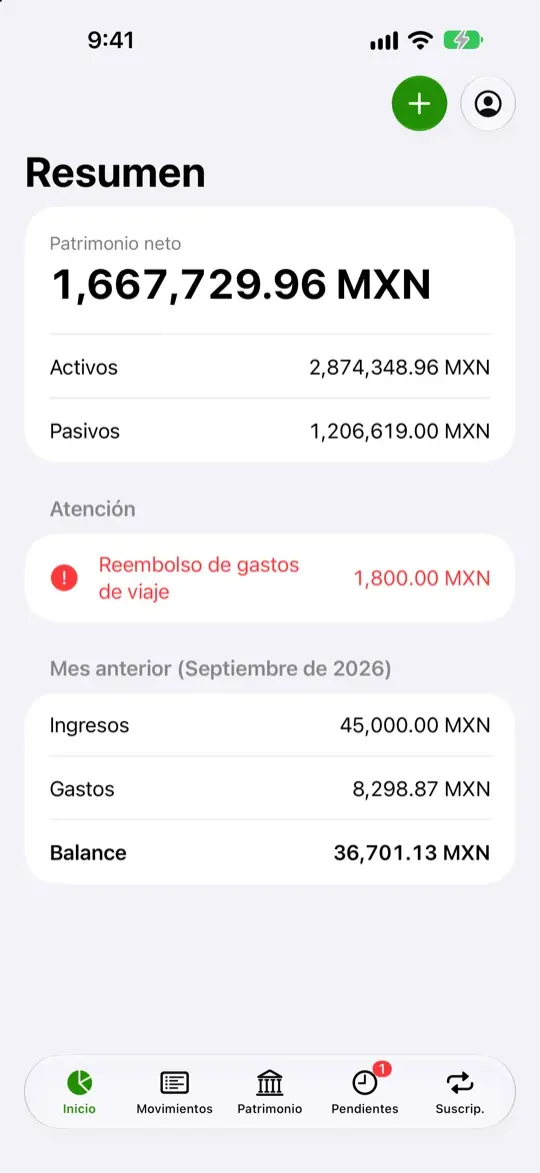
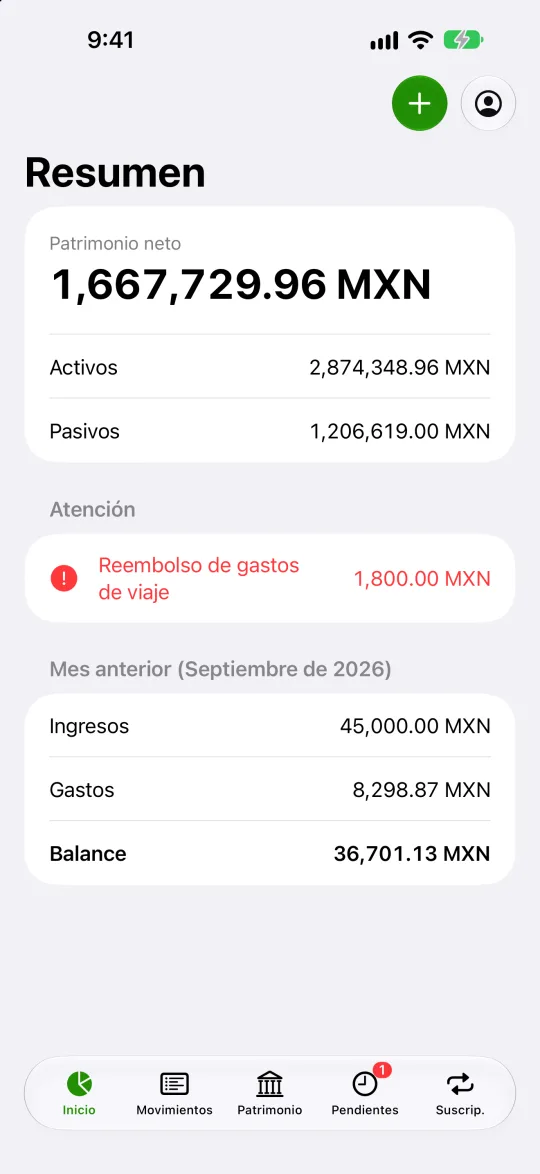
Savium Finanzas: cuatro capturas con su explicación
Como proyecto principal, pasa a cuatro capturas del iPhone (resumen,
patrimonio, pendientes y suscripciones), cada una en su fila con
título y texto. Son las de la App Store, con datos de ejemplo.

diff --git a/index.html b/index.html
@@ -122,6 +122,8 @@ dialog::backdrop { background: var(--shade); }
 .agent.shot h4 { font: 700 19px/1.2 var(--display); letter-spacing: -.01em; }
 .shot .pair { display: flex; justify-content: center; gap: 12px; }
 .agent .pair img { width: min(160px, calc(50% - 6px)); border-radius: 18px; }
+.agent.tall { grid-template-columns: 200px minmax(0, 1fr); gap: 28px; }
+.agent.tall img { border-radius: 18px; }
 /* Agentes: un diagrama por agente, con su papel y cómo se hace cumplir */
 .agents { display: flex; flex-direction: column; gap: 28px; }
 .agents h3 { font: 700 22px/1.2 var(--display); letter-spacing: -.01em; margin: 0; }
@@ -144,6 +146,7 @@ dialog::backdrop { background: var(--shade); }
   .shots img { width: calc(50% - 6px); }
   .sheet.wide .shots img { width: 100%; }
   .agent { grid-template-columns: minmax(0, 1fr); gap: 14px; }
+  .agent.tall { grid-template-columns: 120px minmax(0, 1fr); gap: 16px; }
 }
 @media (prefers-reduced-motion: reduce) {
   .app, .icon { transition: none; }
@@ -197,7 +200,7 @@ const PROFILE = {
   // platforms: "iphone", "android", "web", "sheets" o "ia" (alimentan los filtros y las cifras)
   // links: "web", "store", "play", "mail" o "github"; si falta el de la App Store, se deja vacío
   // es.name / en.name: nombre por idioma, si cambia; agents: lista opcional de agentes con su diagrama
-  // shots (webs): en lugar de imgs, cada captura con su título y explicación; { phones: [...] } junta dos del iPhone en una fila
+  // shots (webs): en lugar de imgs, cada captura con su título y explicación; { phones: [...] } junta dos del iPhone en una fila y { phone } pone una sola
   // agentsDir: carpeta de esos diagramas (por omisión img/agentes); es.agentsTitle / en.agentsTitle: título de la sección, si cambia
   projects: [
     { id: "chp-web", since: "2026-01", name: "CHP App", platforms: ["web", "iphone"], featured: true, wide: true, icon: "img/icons/chp-app.png",
@@ -222,9 +225,22 @@ const PROFILE = {
       links: [{ type: "web", url: "https://app.chpmex.com", label: "app.chpmex.com" }, { type: "web", url: "https://chpmex.com", label: "chpmex.com" }],
       es: { tag: "La plataforma de CHP México: energía, cogeneración y contabilidad por planta.", desc: "Mi proyecto más grande. La plataforma lee facturas de luz y gas, calcula ahorros y proyecciones de cogeneración, lleva la contabilidad de cada planta y muestra tableros a los clientes, en la web y en el iPhone. Incluye el sitio público chpmex.com y sobre ella funciona también CHP Panel de Control." },
       en: { tag: "CHP México's platform: energy, cogeneration and per-plant accounting.", desc: "My biggest project. The platform reads power and gas bills, calculates cogeneration savings and projections, keeps each plant's books and shows dashboards to clients, on the web and on the iPhone. It includes the public site chpmex.com, and CHP Panel de Control also runs on top of it." } },
-    { id: "savium-finanzas", since: "2025-07", name: "Savium Finanzas", platforms: ["iphone", "web"], featured: true,
+    { id: "savium-finanzas", since: "2025-07", name: "Savium Finanzas", platforms: ["iphone", "web"], featured: true, wide: true,
       stack: ["React", "TypeScript", "Swift", "SwiftUI", "Supabase"],
-      imgs: ["img/savium-finanzas-1.webp", "img/savium-finanzas-2.webp"],
+      shots: [ // capturas de la App Store, con datos de ejemplo
+        { phone: "img/savium-finanzas-1.webp",
+          es: { title: "Resumen", text: "El patrimonio neto con sus activos y pasivos, lo que necesita atención, como un reembolso vencido, y los ingresos, gastos y balance del mes anterior." },
+          en: { title: "Summary", text: "Net worth with its assets and liabilities, whatever needs attention, like an overdue reimbursement, and last month's income, expenses and balance." } },
+        { phone: "img/savium-finanzas-2.webp",
+          es: { title: "Patrimonio", text: "Cómo se reparte lo que tienes entre efectivo, inversiones y bienes raíces, y lo que debes en tarjetas e hipoteca, cuenta por cuenta." },
+          en: { title: "Net worth", text: "How what you own splits between cash, investments and real estate, and what you owe on cards and mortgage, account by account." } },
+        { phone: "img/savium-finanzas-3.webp",
+          es: { title: "Pendientes", text: "Lo que te deben y lo que debes pagar, con su fecha; lo vencido aparece en rojo y avisa desde la pestaña." },
+          en: { title: "Pending", text: "What you're owed and what you need to pay, with its date; anything overdue shows in red and flags the tab." } },
+        { phone: "img/savium-finanzas-4.webp",
+          es: { title: "Suscripciones", text: "Las suscripciones activas con su monto, frecuencia y cuándo vuelven a cobrarse, y el total mensual." },
+          en: { title: "Subscriptions", text: "Active subscriptions with their amount, frequency and next charge, plus the monthly total." } },
+      ],
       links: [{ type: "store", url: "https://apps.apple.com/app/id6820799492" }, { type: "web", url: "https://savium.manoloto.com" }],
       es: { tag: "Tus finanzas personales en un solo lugar.", desc: "Mis finanzas personales en un solo lugar: cuentas, inversiones, cripto, suscripciones y extractos bancarios." },
       en: { tag: "Your personal finances in one place.", desc: "Personal finance in one place: accounts, investments, crypto, subscriptions and bank statements." } },
@@ -495,9 +511,10 @@ function fillSheet(id) {
     ${p.imgs?.length ? `<div class="shots">${p.imgs.map((src, i) =>
       `<img src="${esc(src)}" alt="${esc(nameOf(p))} ${i + 1}" ${p.wide ? 'width="1280" height="800"' : 'width="540" height="1170"'} decoding="async">`).join("")}</div>` : ""}${p.shots ? `<section class="agents">
       <h3>${esc(t.shots)}</h3>${p.shots.map((s) => `
-      <article class="agent shot">
+      <article class="agent shot${s.phone ? " tall" : ""}">
         ${s.phones ? `<div class="pair">${s.phones.map((src) =>
           `<img src="${esc(src)}" alt="${esc(s[lang].title)}" width="540" height="1170" decoding="async">`).join("")}</div>`
+          : s.phone ? `<img src="${esc(s.phone)}" alt="${esc(s[lang].title)}" width="540" height="1174" decoding="async">`
           : `<img src="${esc(s.src)}" alt="${esc(s[lang].title)}" width="1280" height="800" decoding="async">`}
         <div>
           <h4>${esc(s[lang].title)}</h4>
@@ -551,7 +568,7 @@ $("copyBtn").addEventListener("click", () => {
 
 /* Precarga de capturas: al pasar sobre una tarjeta y, después, todas en segundo plano */
 const loaded = new Set();
-const preload = (p) => p && [...(p.imgs || []), ...(p.shots || []).flatMap((s) => s.phones || [s.src]), ...(p.agents || []).map((a) => agentImg(p, a))].forEach((src) => { if (!loaded.has(src)) { loaded.add(src); new Image().src = src; } });
+const preload = (p) => p && [...(p.imgs || []), ...(p.shots || []).flatMap((s) => s.phones || [s.phone || s.src]), ...(p.agents || []).map((a) => agentImg(p, a))].forEach((src) => { if (!loaded.has(src)) { loaded.add(src); new Image().src = src; } });
 $("grid").addEventListener("pointerover", (e) => {
   const b = e.target.closest("[data-open]"); if (b) preload(PROFILE.projects.find((x) => x.id === b.dataset.open));
 });
